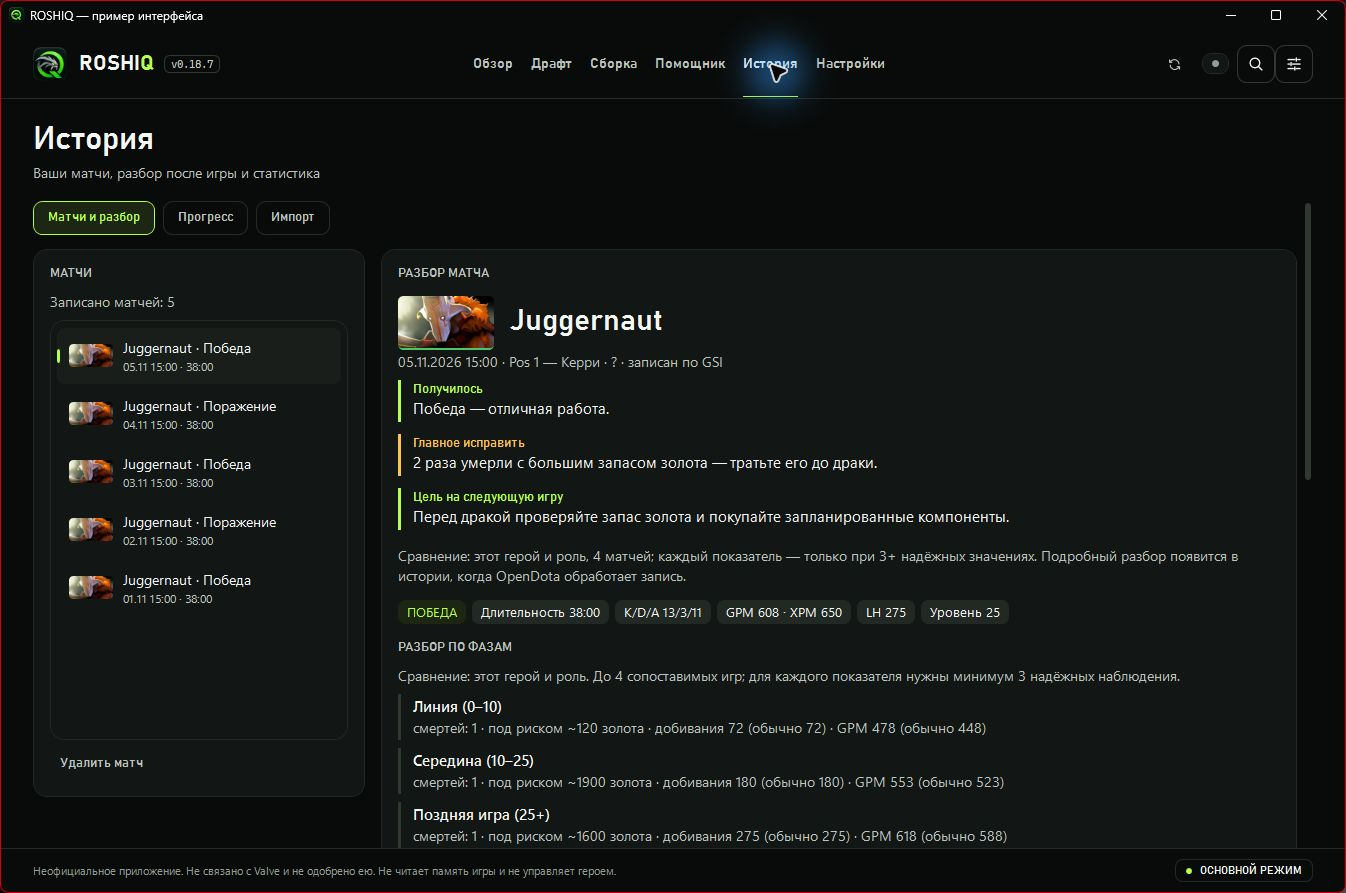
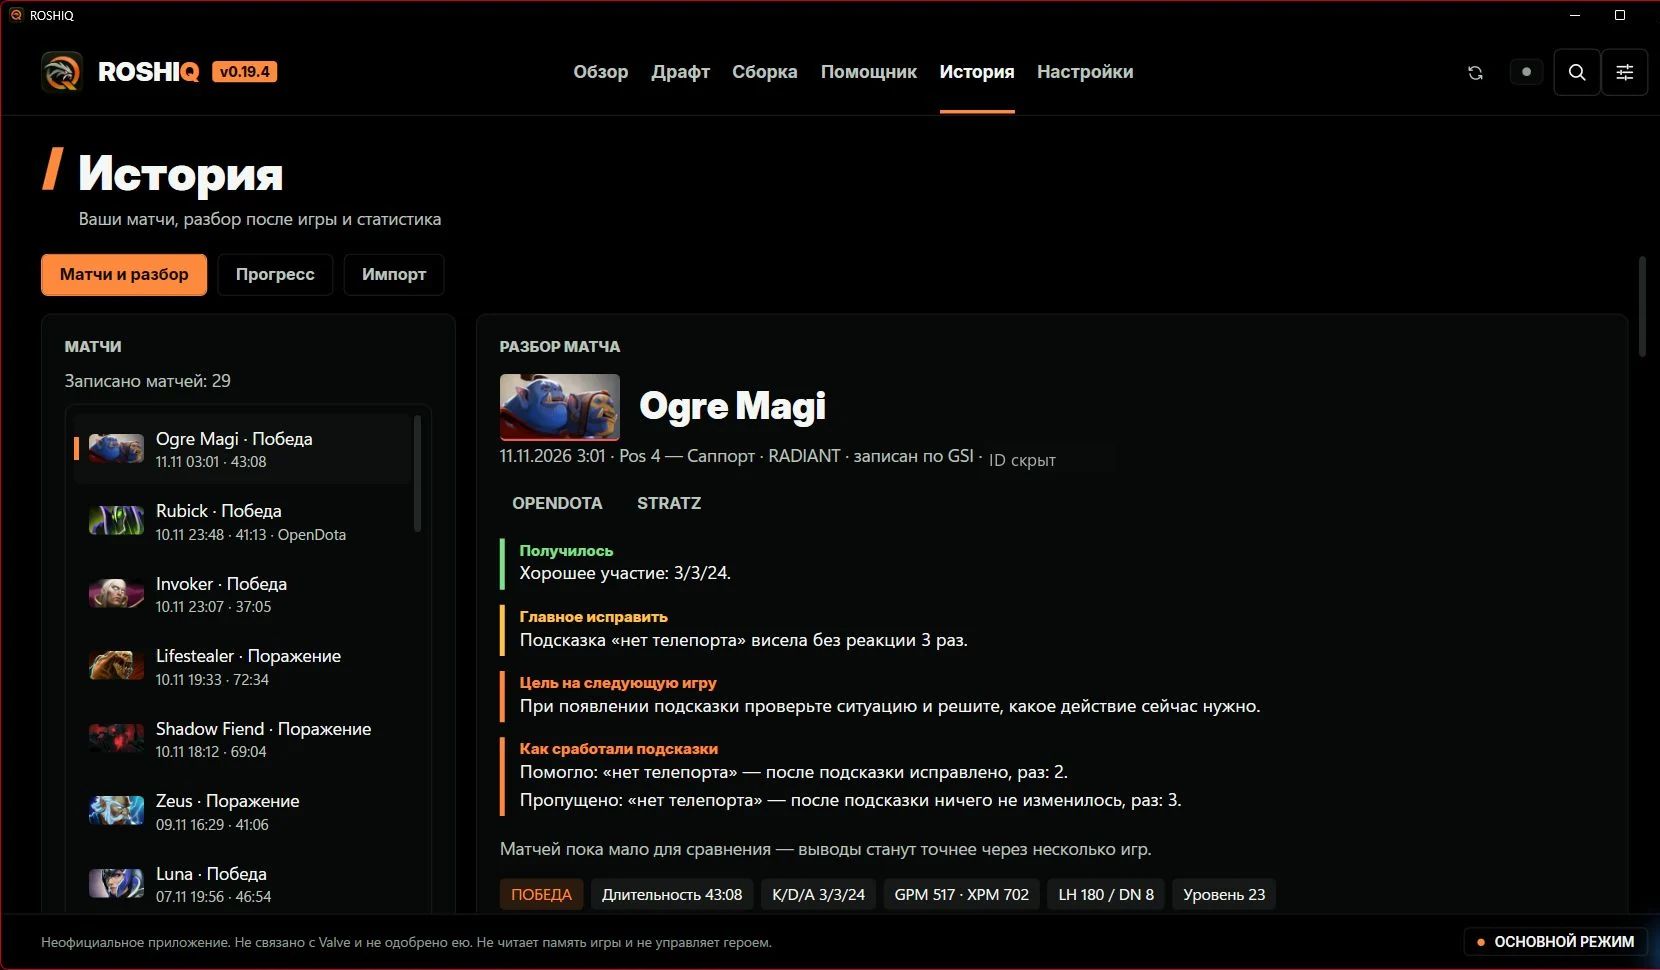
ROSHIQ update 11.11.2026

diff --git a/docs/index.html b/docs/index.html
@@ -36,7 +36,7 @@ ym(114137127, 'init', {ssr:true, webvisor:true, clickmap:true, ecommerce:"dataLa
 <link href="https://fonts.googleapis.com/css2?family=Inter:opsz,wght@14..32,400..900&display=swap" rel="stylesheet">
 <script>try{var a=localStorage.getItem('roshiq-site-acc'),g=localStorage.getItem('roshiq-site-bg');if(a)document.documentElement.dataset.acc=a;if(g)document.documentElement.dataset.bg=g}catch(e){}</script>
 <style>
-:root{--ink:#0A0F0B;--lime:#B5FF4D;--fine:rgba(10,15,11,.72);--grey:#A9B6AA;--soft:#C4CEC5;--line:#1F2A21;--warn:#FFB547;--bad:#FF6B57}
+:root{--ink:#050505;--lime:#FF8A3D;--fine:rgba(5,5,5,.72);--grey:#AAA9A7;--soft:#C8C6C3;--line:#292623;--warn:#FFB547;--bad:#FF6B57}
 *{box-sizing:border-box;margin:0;padding:0}
 html{scroll-behavior:smooth;scroll-padding-top:24px}
 body{background:var(--ink);color:#fff;font:400 18px/1.55 Inter,system-ui,sans-serif;-webkit-font-smoothing:antialiased;overflow-x:hidden}
@@ -142,7 +142,7 @@ h1{font-weight:900;font-size:clamp(42px,4.5vw,64px);line-height:1.02;letter-spac
 
 
 /* темы — те же акценты и фоны, что в программе */
-html[data-acc=crimson]{--lime:#FF4D5E} html[data-acc=violet]{--lime:#A78BFF} html[data-acc=azure]{--lime:#4DB8FF}
+html[data-acc=lime]{--lime:#B5FF4D} html[data-acc=crimson]{--lime:#FF4D5E} html[data-acc=violet]{--lime:#A78BFF} html[data-acc=azure]{--lime:#4DB8FF}
 html[data-acc=teal]{--lime:#3DF5D0} html[data-acc=gold]{--lime:#FFC93D} html[data-acc=orange]{--lime:#FF8A3D}
 html[data-bg=deep]{--ink:#050606;--line:#1A1E1B} html[data-bg=black]{--ink:#000;--line:#161917}
 .tp{position:relative}
@@ -335,7 +335,7 @@ html{scroll-padding-top:calc(var(--nav-height,76px) + 24px)}
 .screen-panel{margin-top:20px;border:1px solid #354338;border-radius:12px;overflow:hidden;background:var(--ink)}
 .screen-panel[hidden]{display:none}
 .screen-panel a{display:block;text-decoration:none}
-.screen-panel img{display:block;width:100%;height:auto;aspect-ratio:1346/893;object-fit:contain;background:#0a0f0b}
+.screen-panel img{display:block;width:100%;height:auto;aspect-ratio:1660/970;object-fit:contain;background:#050505}
 .screen-panel figcaption{display:flex;align-items:center;justify-content:space-between;flex-wrap:wrap;gap:12px;padding:20px 24px;border-top:1px solid var(--line);font-size:15px;color:var(--soft)}
 .screen-panel figcaption .screen-zoom{color:var(--lime);font-size:13px;white-space:nowrap}
 .screens-note{margin-top:16px;font-size:13px;color:var(--grey)}
@@ -359,7 +359,7 @@ html{scroll-padding-top:calc(var(--nav-height,76px) + 24px)}
 <body>
 
   <div class="nav site-nav">
-    <img id="logo" src="site/logo-green.png" alt="" width="36" height="36"><a class="logo" href="#top">ROSHIQ</a>
+    <img id="logo" src="site/logo-orange.png" alt="" width="36" height="36"><a class="logo" href="#top">ROSHIQ</a>
     <div class="top-socials">
       <a class="discord-nav" aria-label="Discord ROSHIQ" href="https://discord.gg/BhZTcTFwuM" data-goal="discord" target="_blank" rel="noopener noreferrer">Discord ↗</a>
       <a aria-label="ВКонтакте" href="https://vk.ru/roshiq" data-goal="vk" target="_blank" rel="noopener noreferrer"><svg viewBox="0 0 24 24" aria-hidden="true" focusable="false"><path d="M12.785 17.241C6.658 17.241 3.163 13.044 3.017 6.054h3.07c.101 5.13 2.364 7.303 4.157 7.751V6.054h2.89v4.425c1.77-.19 3.63-2.207 4.258-4.425h2.89c-.482 2.733-2.499 4.75-3.933 5.58 1.434.672 3.73 2.431 4.604 5.607H17.77c-.683-2.128-2.386-3.775-4.637-3.999v3.999z"/></svg><span data-i18n="vk">ВКонтакте</span></a>
@@ -420,17 +420,17 @@ html{scroll-padding-top:calc(var(--nav-height,76px) + 24px)}
     </div>
     <figure class="screen-panel" role="tabpanel" id="screen-build" aria-labelledby="screenTab-build">
       <a href="site/screens/build.webp" target="_blank" rel="noopener noreferrer">
-        <img src="site/screens/build-480.webp" srcset="site/screens/build-480.webp 480w, site/screens/build-960.webp 960w, site/screens/build.webp 1346w" sizes="(max-width: 640px) calc(100vw - 40px), (max-width: 1240px) calc(100vw - 64px), 1176px" width="1346" height="893" loading="lazy" decoding="async" alt="Окно ROSHIQ: сборка Juggernaut, предметы по этапам матча и объяснения выбора.">
+        <img src="site/screens/build-480.webp" srcset="site/screens/build-480.webp 480w, site/screens/build-960.webp 960w, site/screens/build.webp 1660w" sizes="(max-width: 640px) calc(100vw - 40px), (max-width: 1240px) calc(100vw - 64px), 1176px" width="1660" height="970" loading="lazy" decoding="async" alt="Окно ROSHIQ 0.19.4: сборка Juggernaut и предметы по этапам матча.">
       </a>
       <figcaption><span data-i18n="screenBuildCaption">Предметы под героя и роль — с пояснениями и этапами игры.</span><a class="screen-zoom" href="site/screens/build.webp" target="_blank" rel="noopener noreferrer" data-i18n="screenZoom">Открыть крупнее ↗</a></figcaption>
     </figure>
     <figure class="screen-panel" role="tabpanel" id="screen-review" aria-labelledby="screenTab-review" hidden>
       <a href="site/screens/review-mistake.webp" target="_blank" rel="noopener noreferrer">
-        <img src="site/screens/review-mistake-480.webp" srcset="site/screens/review-mistake-480.webp 480w, site/screens/review-mistake-960.webp 960w, site/screens/review-mistake.webp 1346w" sizes="(max-width: 640px) calc(100vw - 40px), (max-width: 1240px) calc(100vw - 64px), 1176px" width="1346" height="893" loading="lazy" decoding="async" alt="Окно ROSHIQ: история матчей Juggernaut, выводы, цель и разбор по фазам на демонстрационных данных.">
+        <img src="site/screens/review-mistake-480.webp" srcset="site/screens/review-mistake-480.webp 480w, site/screens/review-mistake-960.webp 960w, site/screens/review-mistake.webp 1660w" sizes="(max-width: 640px) calc(100vw - 40px), (max-width: 1240px) calc(100vw - 64px), 1176px" width="1660" height="970" loading="lazy" decoding="async" alt="Окно ROSHIQ 0.19.4: история матчей Ogre Magi, выводы и цель на следующую игру. ID матча скрыт.">
       </a>
-      <figcaption><span data-i18n="screenReviewCaption">Пример: две смерти с запасом золота → цель покупать компоненты перед дракой.</span><a class="screen-zoom" href="site/screens/review-mistake.webp" target="_blank" rel="noopener noreferrer" data-i18n="screenZoom">Открыть крупнее ↗</a></figcaption>
+      <figcaption><span data-i18n="screenReviewCaption">Пример: подсказку про телепорт пропустили → цель внимательнее реагировать в следующем матче.</span><a class="screen-zoom" href="site/screens/review-mistake.webp" target="_blank" rel="noopener noreferrer" data-i18n="screenZoom">Открыть крупнее ↗</a></figcaption>
     </figure>
-    <p class="screens-note" data-i18n="screensNote">Скриншоты настоящей программы. Матчи и статистика — демонстрационные. Нажми на изображение, чтобы рассмотреть детали.</p>
+    <p class="screens-note" data-i18n="screensNote">Скриншоты ROSHIQ 0.19.4. ID матча скрыт. Нажми на изображение, чтобы рассмотреть детали.</p>
   </div>
 </section>
 
@@ -508,9 +508,9 @@ html{scroll-padding-top:calc(var(--nav-height,76px) + 24px)}
     <div class="steps setup-steps">
       <div class="step"><b data-i18n="s1">Выбери язык и роль</b><span data-i18n="s1p">В мастере первого запуска выбери язык, оформление и свою обычную роль. Всё можно изменить позже.</span><a class="setup-image" href="site/screens/setup-welcome.webp" target="_blank" rel="noopener noreferrer"><img src="site/screens/setup-welcome-480.webp" srcset="site/screens/setup-welcome-480.webp 480w, site/screens/setup-welcome.webp 746w" sizes="(max-width: 860px) calc(100vw - 40px), (max-width: 1240px) calc((100vw - 128px) / 3), 370px" width="746" height="593" loading="lazy" decoding="async" alt="Первый запуск ROSHIQ: выбор языка и оформления."><span data-i18n="screenZoom">Открыть крупнее ↗</span></a></div>
       <div class="step"><b data-i18n="s2">Подключи Dota 2</b><span data-i18n="s2p">На шаге «Связь с игрой» нажми «Настроить связь с игрой». Затем перезапусти Dota 2. Если данные не приходят, проверь параметр запуска <code>-gamestateintegration</code>.</span><a class="setup-image" href="site/screens/setup-connect.webp" target="_blank" rel="noopener noreferrer"><img src="site/screens/setup-connect-480.webp" srcset="site/screens/setup-connect-480.webp 480w, site/screens/setup-connect.webp 746w" sizes="(max-width: 860px) calc(100vw - 40px), (max-width: 1240px) calc((100vw - 128px) / 3), 370px" width="746" height="593" loading="lazy" decoding="async" alt="Шаг связи с игрой: кнопка настройки GSI и напоминание о перезапуске Dota 2."><span data-i18n="screenZoom">Открыть крупнее ↗</span></a></div>
-      <div class="step"><b data-i18n="s3">Проверь связь</b><span data-i18n="s3p">Открой «Настройки → Диагностика» или «Что не так?» на обзоре. Если связь не работает, здесь будут причины и кнопки исправления. В Dota выбери «Окно без рамки»; панель включается <kbd>F8</kbd>.</span><a class="setup-image" href="site/screens/setup-check.webp" target="_blank" rel="noopener noreferrer"><img src="site/screens/setup-check-480.webp" srcset="site/screens/setup-check-480.webp 480w, site/screens/setup-check.webp 706w" sizes="(max-width: 860px) calc(100vw - 40px), (max-width: 1240px) calc((100vw - 128px) / 3), 370px" width="706" height="633" loading="lazy" decoding="async" alt="Пример диагностики ROSHIQ при выключенной связи с игрой: причины и кнопки исправления."><span data-i18n="screenZoom">Открыть крупнее ↗</span></a></div>
+      <div class="step"><b data-i18n="s3">Проверь связь</b><span data-i18n="s3p">Открой «Настройки → Диагностика» или «Что не так?» на обзоре. Если связь не работает, здесь будут причины и кнопки исправления. В Dota выбери «Окно без рамки»; панель включается <kbd>F8</kbd>.</span><a class="setup-image" href="site/screens/setup-check.webp" target="_blank" rel="noopener noreferrer"><img src="site/screens/setup-check-480.webp" srcset="site/screens/setup-check-480.webp 480w, site/screens/setup-check.webp 706w" sizes="(max-width: 860px) calc(100vw - 40px), (max-width: 1240px) calc((100vw - 128px) / 3), 370px" width="706" height="633" loading="lazy" decoding="async" alt="Диагностика ROSHIQ 0.19.4: Dota 2 найдена, файл связи на месте, данные принимаются."><span data-i18n="screenZoom">Открыть крупнее ↗</span></a></div>
     </div>
-    <p class="screens-note" data-i18n="setupNote">На третьем изображении — пример диагностики при отсутствии связи. У тебя результаты проверки могут отличаться.</p>
+    <p class="screens-note" data-i18n="setupNote">На третьем изображении — диагностика, когда всё настроено. Если что-то не так, там будут причина и кнопка исправления.</p>
   </div>
 </section>
 
@@ -636,9 +636,9 @@ EN.screensTitle="Here’s what you’ll open.";
 EN.screensIntro="Builds before the match. A clear review after. Explore the app before installing.";
 EN.screenBuild="Hero build";EN.screenReview="Match review";
 EN.screenBuildCaption="Items for your hero and role, with explanations and game stages.";
-EN.screenReviewCaption="Takeaways, a goal for your next game, and comparison with your own matches.";
+EN.screenReviewCaption="A missed teleport reminder becomes a goal for the next match.";
 EN.screenZoom="Open full size ↗";
-EN.screensNote="Screenshots of the real app. Matches and statistics are examples. Click an image to explore the details.";
+EN.screensNote="Screenshots of ROSHIQ 0.19.4. The match ID is hidden. Click an image to see the details.";
 EN.portable="Portable version (.zip) — no installation";
 EN.startLink="First launch guide ↗";
 EN.h2c="First launch.<br>Three simple steps.";
@@ -649,7 +649,7 @@ EN.s2="Connect Dota 2";
 EN.s2p="At the game connection step, click “Set up game connection”. Then restart Dota 2. If data does not arrive, check the <code>-gamestateintegration</code> launch option.";
 EN.s3="Check the connection";
 EN.s3p="Open “Settings → Diagnostics” or “What’s wrong?” on the dashboard. If the connection fails, it shows the causes and fix buttons. Use Borderless window in Dota; <kbd>F8</kbd> toggles the panel.";
-EN.setupNote="The third image shows example diagnostics with no game connection. Your check results may differ.";
+EN.setupNote="The third image shows diagnostics with everything set up. If something is wrong, you will see the cause and a fix button there.";
 EN.screenReviewCaption="Example: two deaths holding lots of gold → a goal to buy components before fighting.";
 EN.supportTitle="Still need help?";
 EN.supportText="In the app, open <b>Settings → Diagnostics → “Create report”</b>. Attach the ZIP to your message and describe what happened. The app removes Steam IDs and keys from the report; it never sends it automatically.";
@@ -672,8 +672,8 @@ function setLang(l){lang=l;const d=l==='en'?EN:RU;
   document.getElementById('siteNav').setAttribute('aria-label',l==='en'?'Sections':'Разделы');
   document.getElementById('mMoments').setAttribute('aria-label',l==='en'?'Match situations':'Ситуации матча');
   document.getElementById('screenTabs').setAttribute('aria-label',l==='en'?'App screens':'Экраны программы');
-  document.querySelector('#screen-build img').alt=l==='en'?'ROSHIQ app: Juggernaut build, items by game stage, and explanations.':'Окно ROSHIQ: сборка Juggernaut, предметы по этапам матча и объяснения выбора.';
-  document.querySelector('#screen-review img').alt=l==='en'?'ROSHIQ app: match history, takeaways, a goal and phase review using example data.':'Окно ROSHIQ: история матчей Juggernaut, выводы, цель и разбор по фазам на демонстрационных данных.';
+  document.querySelector('#screen-build img').alt=l==='en'?'ROSHIQ 0.19.4: Juggernaut build and items by game stage.':'Окно ROSHIQ 0.19.4: сборка Juggernaut и предметы по этапам матча.';
+  document.querySelector('#screen-review img').alt=l==='en'?'ROSHIQ 0.19.4: Ogre Magi match review and a goal for the next game; match ID hidden.':'Окно ROSHIQ 0.19.4: разбор матча Ogre Magi и цель на следующую игру; ID скрыт.';
   try{localStorage.setItem('roshiq-site-lang',l)}catch(e){}}
 document.getElementById('lang').addEventListener('click',()=>{setLang(lang==='ru'?'en':'ru');paintThemes()});
 try{if(localStorage.getItem('roshiq-site-lang')==='en')setLang('en')}catch(e){}
@@ -697,11 +697,11 @@ const BGS=[["standard","Фон: обычный","Background: standard"],["deep",
 const root=document.documentElement;
 function store(k,v){try{localStorage.setItem(k,v)}catch(e){}}
 function paintThemes(){
-  const acc=root.dataset.acc||'lime', bg=root.dataset.bg||'standard', en=lang==='en';
+  const acc=root.dataset.acc||'orange', bg=root.dataset.bg||'standard', en=lang==='en';
   const A=document.getElementById('tpAcc'), B=document.getElementById('tpBg'); A.innerHTML=''; B.innerHTML='';
   ACC.forEach(([k,c,brand,ru,eng])=>{const b=document.createElement('button');b.type='button';b.className='sw';b.style.setProperty('--c',c);
     b.title=en?eng:ru;b.setAttribute('aria-label',b.title);b.setAttribute('aria-pressed',k===acc);
-    b.onclick=()=>{if(k==='lime')delete root.dataset.acc;else root.dataset.acc=k;store('roshiq-site-acc',k);paintThemes()};A.appendChild(b)});
+    b.onclick=()=>{if(k==='orange')delete root.dataset.acc;else root.dataset.acc=k;store('roshiq-site-acc',k);paintThemes()};A.appendChild(b)});
   BGS.forEach(([k,ru,eng],i)=>{const b=document.createElement('button');b.type='button';b.className='bgo';
     b.textContent=(en?['Standard','Deep','Black']:['Обычный','Глубокий','Чёрный'])[i];b.title=en?eng:ru;b.setAttribute('aria-pressed',k===bg);
     b.onclick=()=>{if(k==='standard')delete root.dataset.bg;else root.dataset.bg=k;store('roshiq-site-bg',k);paintThemes()};B.appendChild(b)});

diff --git a/src/Roshiq.App/Views/DiagnosticsWindow.xaml b/src/Roshiq.App/Views/DiagnosticsWindow.xaml
@@ -20,7 +20,7 @@
             <StackPanel x:Name="ChecksPanel" />
         </ScrollViewer>
         <DockPanel Grid.Row="2" Margin="0,16,0,0">
-            <Button DockPanel.Dock="Right" Style="{StaticResource PrimaryButton}" Content="{app:T diag_close}" Click="Close_Click" IsCancel="True" />
+            <Button DockPanel.Dock="Right" VerticalAlignment="Bottom" Style="{StaticResource PrimaryButton}" Content="{app:T diag_close}" Click="Close_Click" IsCancel="True" />
             <WrapPanel>
                 <Button x:Name="RunButton" Style="{StaticResource GhostButton}" Content="{app:T diag_rerun}" Click="Run_Click" />
                 <Button Style="{StaticResource GhostButton}" Content="{app:T diag_copy}" Click="Copy_Click" />
